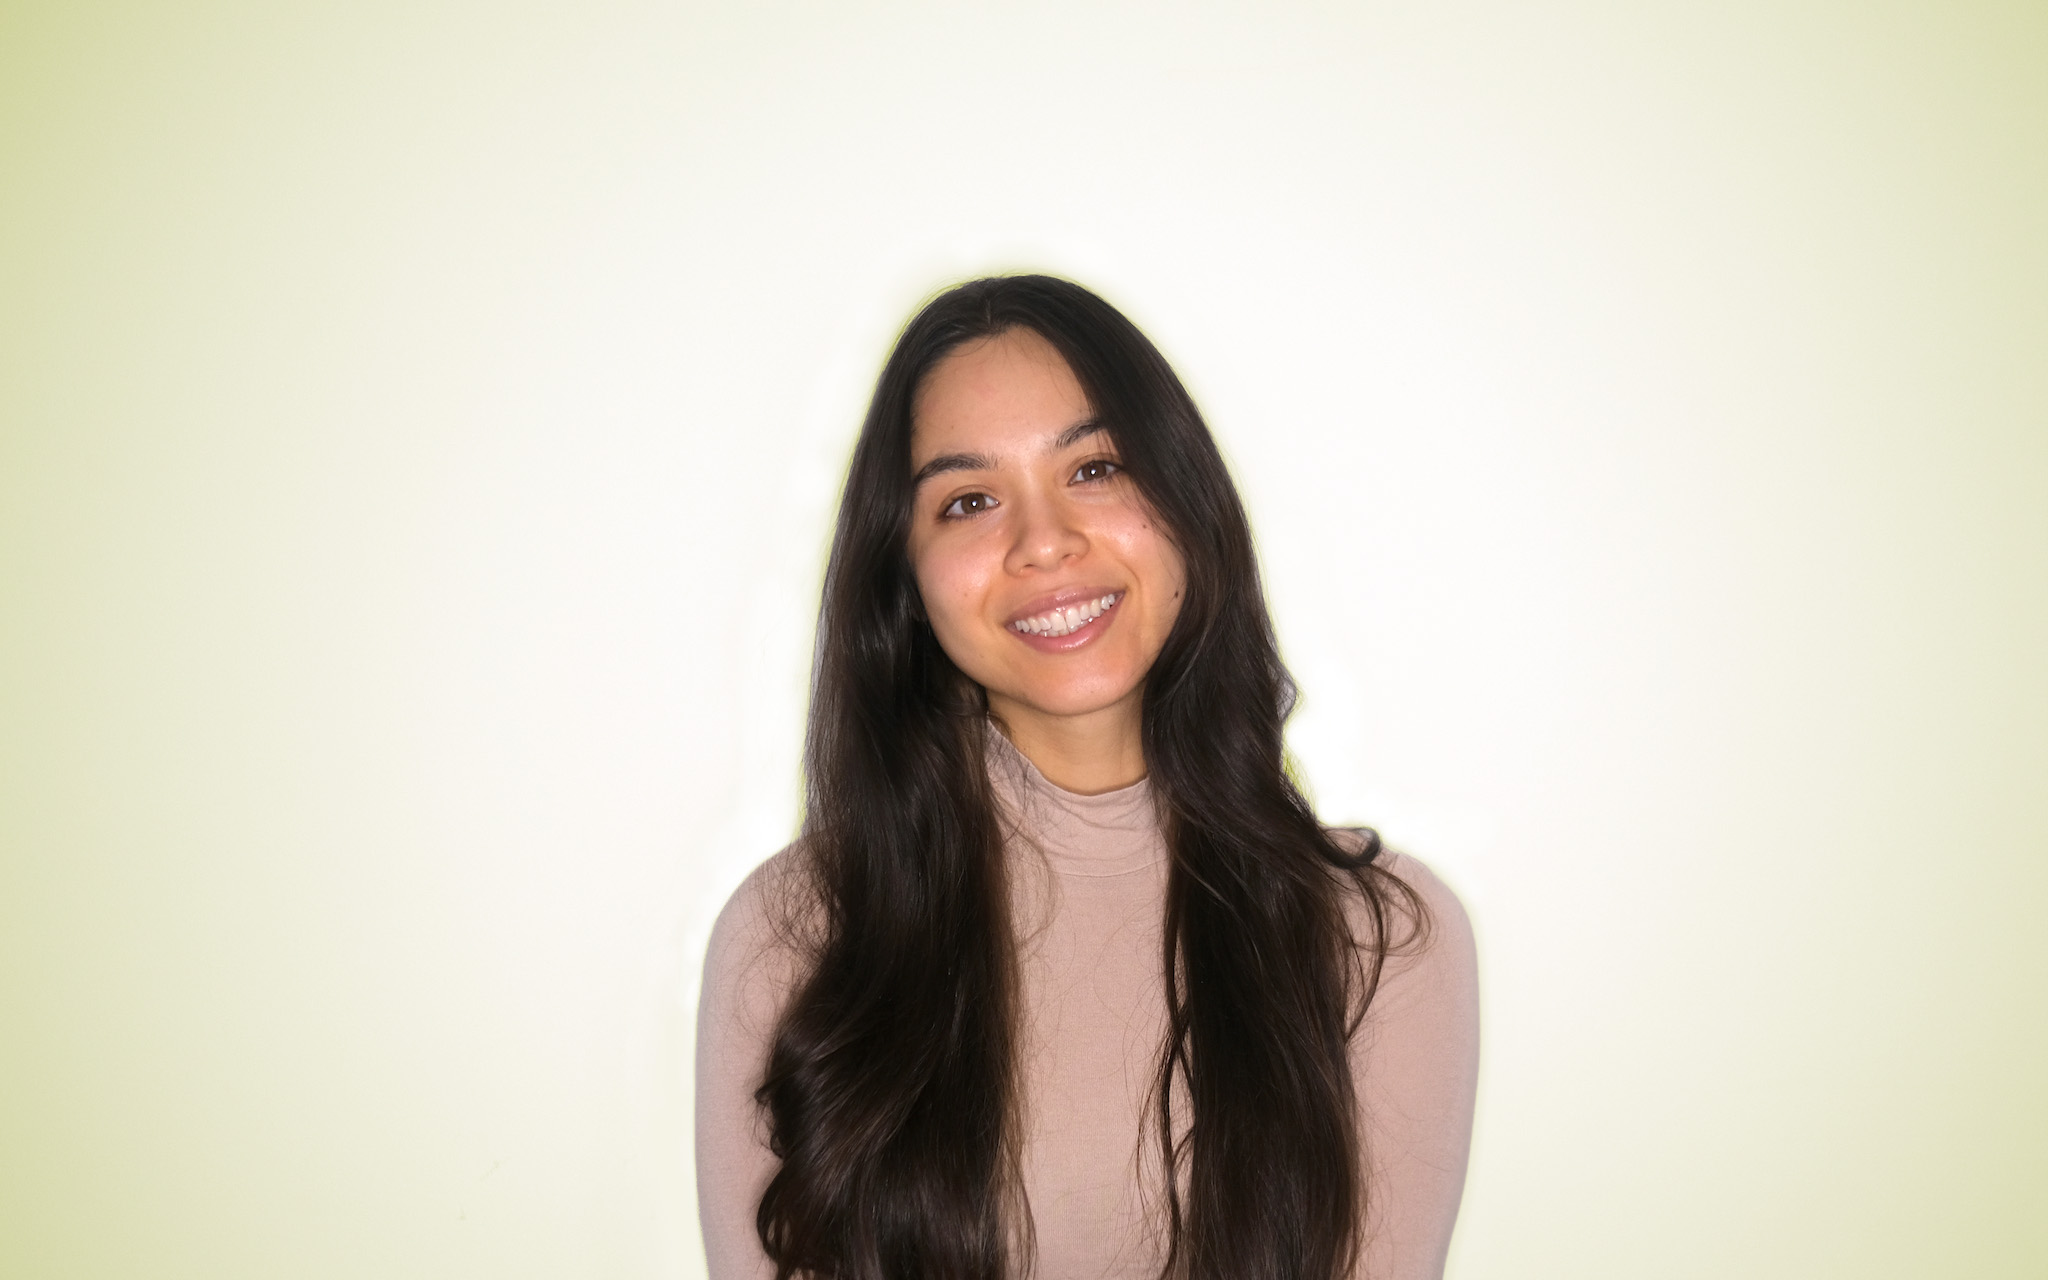
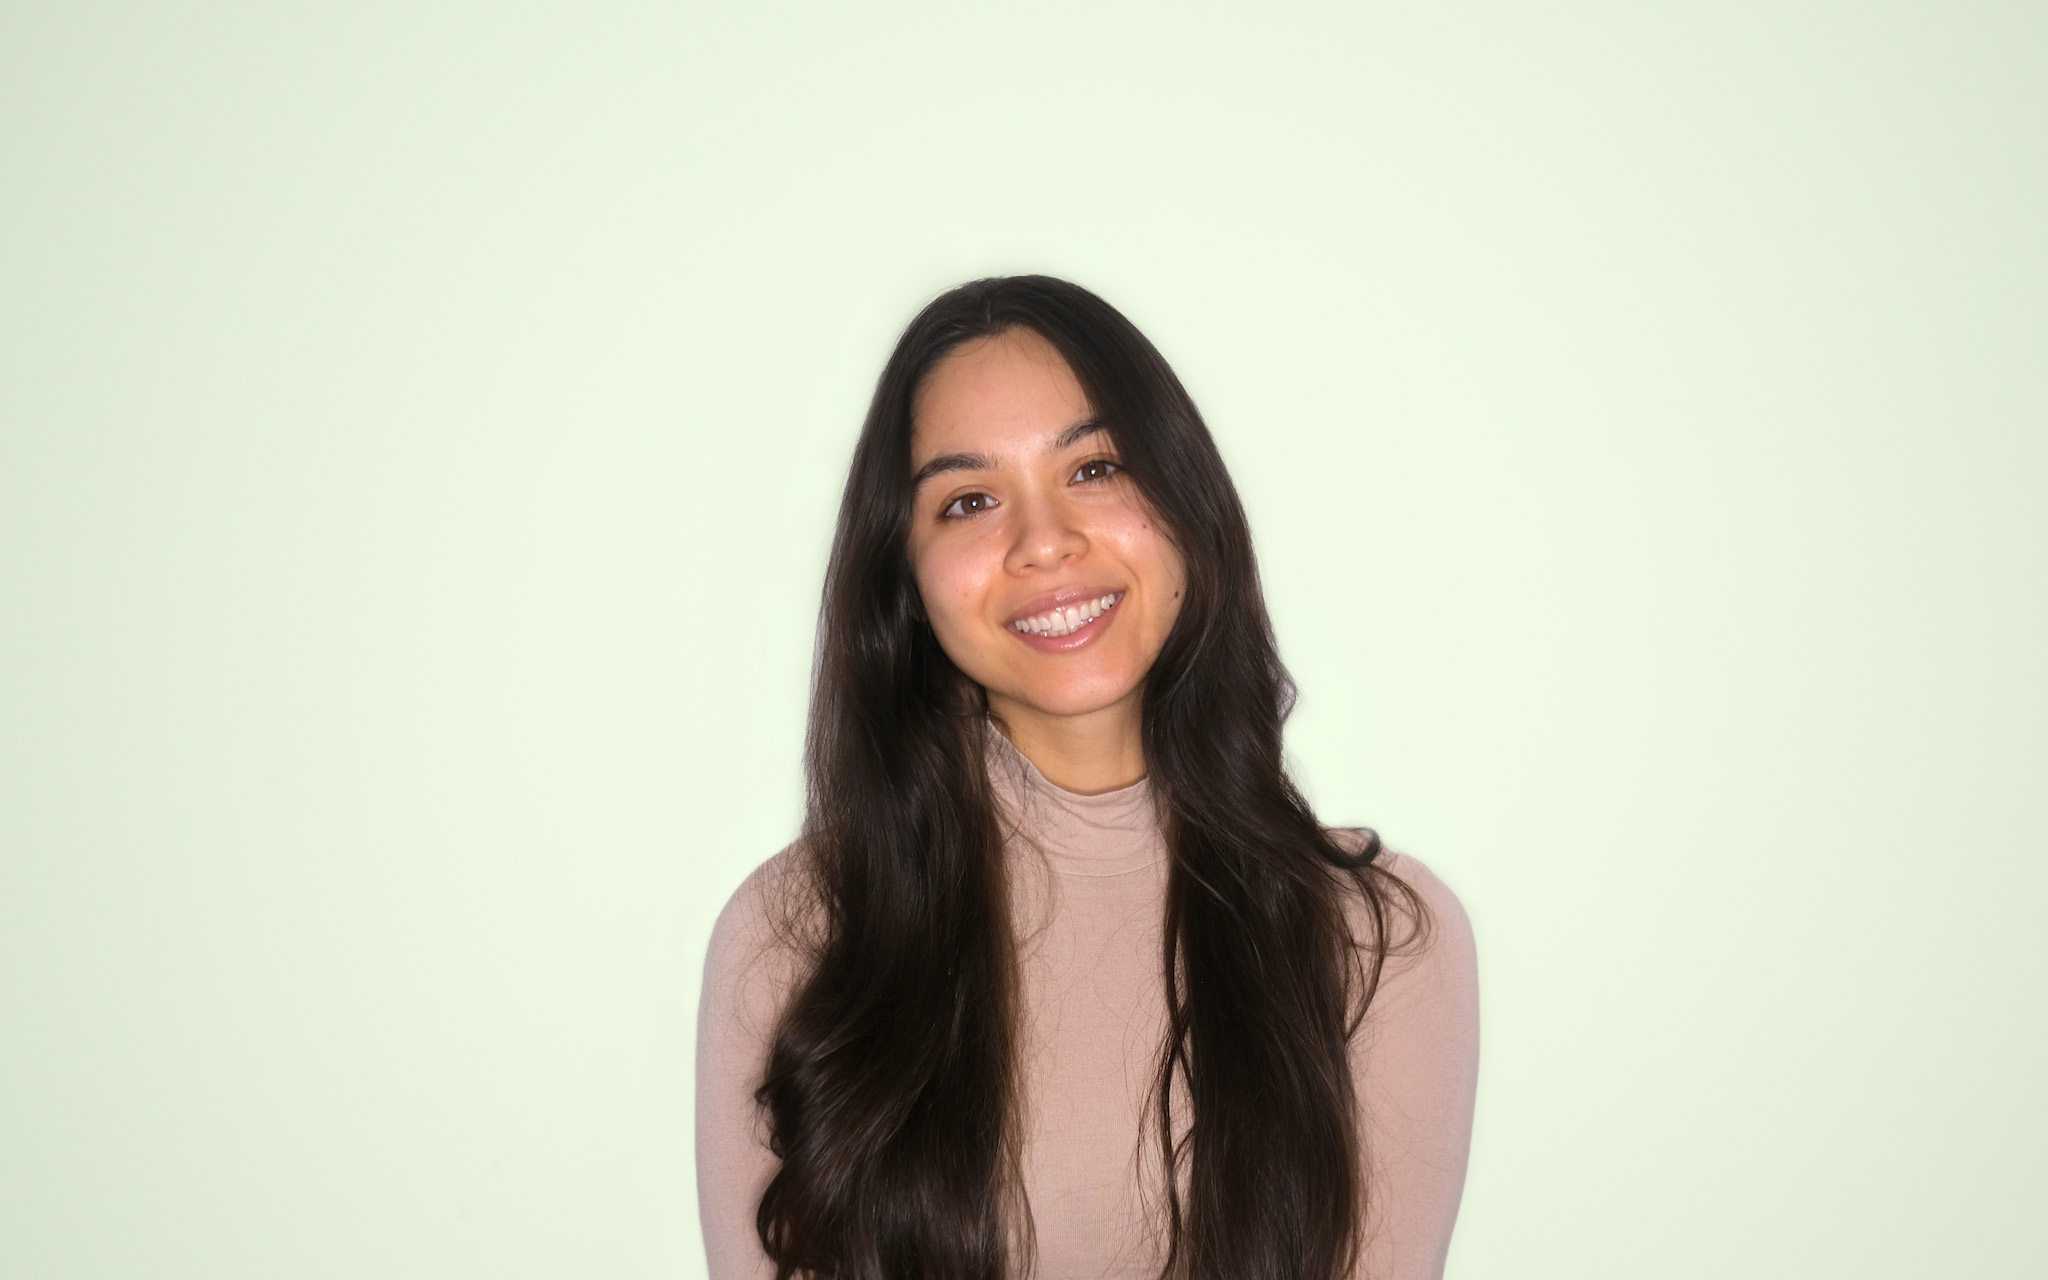
Updated detail page titles, headers, and index profile photo.

diff --git a/2021-bank.html b/2021-bank.html
@@ -20,25 +20,25 @@
         <ul>
     </nav>
     <img class="cover-image" src="2021-bank-images/cover.jpg" alt="">
-    <h1 class="mark mark-green inline">How might we bring manual experiences to the digital world?</h1>
+    <h1 class="mark mark-green inline">Bringing manual experiences to the digital world</h1>
     <p class="role">User Experience Designer</p>
-    <p>Two platforms from this Canadian big five bank was being rebuilt from the ground up with new micro services and a completely new front end. My pod was given six different sections among two of their business banking platforms to design for.</p>
+    <p class="description">Two platforms from this Canadian big five bank were being rebuilt from the ground up with new microservices and a completely new front end. My pod was given six different sections among two of the business banking platforms to design for.</p>
     
     <dl>
       <dt>Co-creators</dt>
-      <dd>1 team lead, 1 UX designer, 1 visual designer, 1 part-time copy writer, business analysts, and developers.</dd>
+      <dd>1 team lead, 1 UX designer, 1 visual designer, 1 copywriter, business analysts, and developers.</dd>
       <dt>Duration</dt>
       <dd>7 months (Nov 2020-June 2021)</dd>
-      <dt>Sector/Industry/Client</dt>
+      <dt>Industry</dt>
       <dd>Banking / Finance</dd>
       <dt>Tools</dt>
       <dd>Adobe Xd, Figma, MS Word</dd>
-      <dt>Contributions</dt>
-      <dd>Interviewing, cross functional collaboration, presenting, leading design consistency, diagrams, annotated/detailed designs, improving hand-off processes </dd>
+      <dt>My Contributions</dt>
+      <dd>Interviewing, cross-functional collaboration, presenting, leading design consistency, diagrams, annotated/detailed designs, improving hand-off processes </dd>
     </dl>
 <hr>
-<h2>Opportunity/Challenge</h2>
-<p>Our pod was in charge of six sections of the platforms. These sections were to allow business customers to send and receive payments, authorize payments, manage business account transaction limitations, deal with remittance information, and track wire payments. Many of these processes were done manually with people and paper, and had to be translated to the digital space.</p>
+<h2>Problem</h2>
+<p>Our pod was in charge of six sections of the platforms. These sections allowed business customers to send and receive payments, authorize payments, manage business account transaction limitations, deal with remittance information, and track wire payments. Many of these processes were done manually with people and paper, and had to be translated to the digital space.</p>
 
 <h2>Solution</h2>
 <p>Ultimately, we needed high-level wireframes, detailed annotated designs, and a Visual Design for the six main sections, utilizing the approved design tool, Adobe XD. Coming in knowing nothing about the product, we needed to first understand a little more about the existing processes, style guide, and platform, by carrying out a little research.</p>
@@ -86,7 +86,7 @@
     <li>Presented and delivered designs and determined areas of risk to both the business and developers.</li>
     <li>Collaborated with designers on other pods to align new designs with existing design patterns.</li>
     <li>Improved the process for working with the copywriter, making updates more efficient.</li>
-    <li>Identified areas for improvement within the existing design team’s resources and design processes, initiating discussions and kick starting an improvement plan going forward. We also included actionable suggestions that were then carried out.</li>
+    <li>Identified areas for improvement within the existing design team's resources and design processes, initiating discussions and kick starting an improvement plan going forward. We also included actionable suggestions that were then carried out.</li>
 </ul>
 <img class="project-image" src="2021-bank-images/deliverable-1.jpg">
     <small>An example of one of the six XD working files. Each working file included highlevel flows, and detailed designs for each page and state.</small>

diff --git a/2020-telecom.html b/2020-telecom.html
@@ -21,24 +21,24 @@
     </nav>
     <img class="cover-image" src="2020-telecom-images/erik-mclean-U-Vu_r6qyyU-unsplash.jpg" alt="">
 
-    <h1 class="mark mark-purple inline">How might we design an experience where users can set up their own home internet and cable?</h1>
+    <h1 class="mark mark-purple inline">Designing an DIY home internet/cable setup experience</h1>
     <p class="role">Service Designer</p>
-    <p>Worked as a service designer in the design of a DIY Wi-Fi and Cable installation customer experience with the goals of reducing technician costs and improving installation times. Deliverables planned at the beginning shifted and what I ended up owning and delivering was a framework to guide the instruction experience and paper-instruction templates to help improve installation success rates.</p>
+    <p class="description">Worked as a service designer in the design of a DIY Wi-Fi and Cable installation customer experience with the goals of reducing technician costs and improving installation times. Deliverables planned at the beginning shifted and what I ended up owning and delivering was a framework to guide the instruction experience and paper-instruction templates to help improve installation success rates.</p>
     
     <dl>
       <dt>Co-creators</dt>
       <dd>Me + 1 Lead Service Designer, 2 Business/Strategy Designers, 2 Industrial/Packaging Designers, 1 Product Design Director, 2 Project Managers</dd>
       <dt>Duration</dt>
       <dd>1.5 Months (September 2020 - November 2020)</dd>
-      <dt>Sector/Industry/Client</dt>
+      <dt>Industry</dt>
       <dd>Telecommunications</dd>
       <dt>Tools</dt>
       <dd>Otter, Mural, MS Word</dd>
-      <dt>Contributions</dt>
+      <dt>My Contributions</dt>
       <dd>Research and Interviewing, Synthesis, Experience Audit, Customer Journey Mapping, Presentations, Instruction Templates, Guiding Principles, Recommendations</dd>
     </dl>
 <hr>
-<h2>Opportunity/Challenge</h2>
+<h2>Problem</h2>
 <p>Typically cable and home internet installations are carried out 100% by trained technicians who can assess the home, install hardware, and setup software to get a customer all set up. The cost involved per technician on any installation day costs hundreds of dollars; a cost that has been hard to charge or pass onto customers, ultimately becoming a huge cost-item to the client. With the introduction of COVID, the need for a social distanced approach to installation, as well as a faster way for customers to get set up was needed.</p>
 
 <h2>Solution</h2>

diff --git a/style.css b/style.css
@@ -101,7 +101,7 @@ article h3::before{
     mix-blend-mode: multiply;
     text-align: center;
     color: white;
-    background-color: darkkhaki;
+    background-color: #E6EFDA;
     padding: 50px;
     position: relative;
     box-shadow: 20px 20px whitesmoke;
@@ -154,8 +154,8 @@ article h3::before{
 .chat-links p:nth-child(2):before {
     border-top: 10px solid transparent;
     border-right: 10px solid transparent;
-    border-bottom: 10px solid darkkhaki;
-    border-left: 10px solid darkkhaki;
+    border-bottom: 10px solid #E6EFDA;
+    border-left: 10px solid #E6EFDA;
     right: -19px;
     top: 80px;
     box-shadow: 0 1px black;
@@ -263,7 +263,7 @@ mark{
 }
 
 .other-projects p{
-    font-weight: bold;
+    font-family: 'Cormorant Garamond Bold';
 }
 .other-projects p em{
     font-weight: normal;
@@ -296,7 +296,7 @@ img{
 dt{
     font-size: 0.8rem;
     font-variant: small-caps;
-    font-weight: bold;
+    font-family: 'Cormorant Garamond Bold';
 }
 
 .role{
@@ -304,6 +304,13 @@ dt{
     margin: 0;
     font-style: italic;
 }
+
+.description{
+    border: 1px solid black;
+    padding: 1rem;
+    box-shadow: 10px 10px whitesmoke;
+}
+
 .role:before{
     content: "as a ";
 }
@@ -357,7 +364,7 @@ small{
     text-align: center;
     position: absolute;
     top: 40%;
-    font-weight: bold;
+    font-family: 'Cormorant Garamond Bold';
     font-variant: small-caps;
     font-size:1.2rem;
 }
@@ -402,7 +409,7 @@ small{
         position: absolute;
         top: 40%;
         left: 35%;
-        font-weight: bold;
+        font-family: 'Cormorant Garamond Bold';
         font-variant: small-caps;
         font-size:1.2rem;
     }
@@ -440,6 +447,11 @@ small{
         line-height: 3.5rem;
         margin-bottom: 1rem;
     }
+}
+
+dd{
+    margin-inline-start: 0;
+    margin-bottom: 1rem;
 }
 
 @media only screen and (min-width: 800px) {

diff --git a/2018-gasutilities.html b/2018-gasutilities.html
@@ -22,25 +22,25 @@
     <img class="cover-image project-image" src="2018-gasutility/jason-richard-naK1i6nCuqc-unsplash.jpg" alt="">
         <small class="right lighter">Photo by <a href="https://unsplash.com/@jasonthedesigner?utm_source=unsplash&utm_medium=referral&utm_content=creditCopyText">Jason Richard</a> on <a href="https://unsplash.com/s/photos/utility-bill?utm_source=unsplash&utm_medium=referral&utm_content=creditCopyText">Unsplash</a>
     </small>
-    <h1 class="mark mark-yellow inline">How might we tackle a digital transformation?</h1>
+    <h1 class="mark mark-yellow inline">A full digital transformation</h1>
     <p class="role">User Experience Designer</p>
-    <p>Re-designed the customer web app experience for a large North American gas/utilities company, which serves over 1.9 million customers, and laid the ground work for future iterations.</p>
+    <p class="description">Re-designed the customer web app experience for a large North American gas/utilities company, which serves over 1.9 million customers, and laid the ground work for future iterations.</p>
     
     <dl>
       <dt>Co-creators</dt>
       <dd>Me + 1 Visual Designer, 1 UX lead, 1 Copy Writer, Project Managers, Developers, and SMEs</dd>
       <dt>Duration</dt>
       <dd>5 Months (January 2018 - May 2018)</dd>
-      <dt>Sector/Industry/Client</dt>
+      <dt>Industry</dt>
       <dd>Gas/Utilities</dd>
       <dt>Tools</dt>
       <dd>Sketch, Invision, MS Excel, Keynote</dd>
-      <dt>Contributions</dt>
+      <dt>My Contributions</dt>
       <dd>Stakeholder Interviews, Cross Functional Collaboration, Design Leadership, Wireframes, Flows, Design System Creation</dd>
     </dl>
 <hr>
 
-<h2>Opportunity/Challenge</h2>
+<h2>Problem</h2>
 <p></p>
 
 <h2>Solution</h2>
